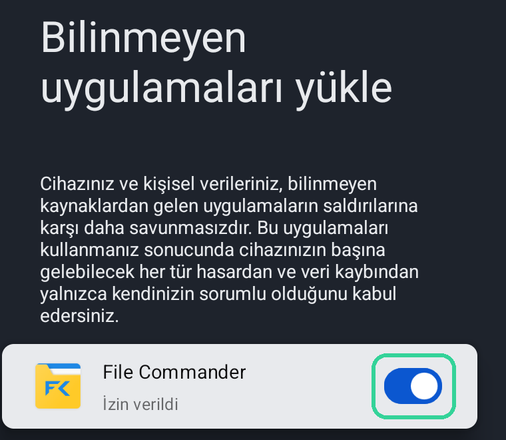
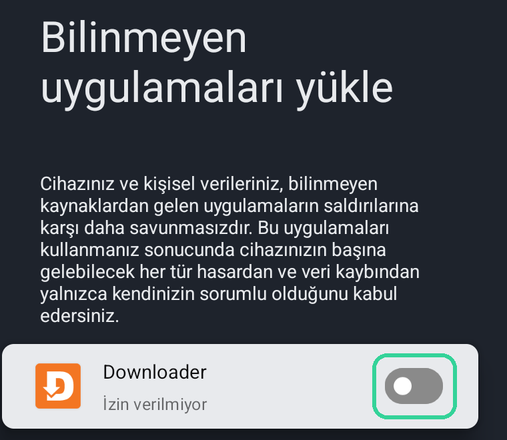
Install page: one flow for every TV, accessibility screenshots, honest Google TV note

diff --git a/index.html b/index.html
@@ -56,7 +56,7 @@ a { color:var(--accent); }
   <img src="logo.png" width="64" height="64" alt="CleanYourTV logosu: zümrüt ekranlı antenli televizyon">
   <div>
     <h1>CleanYourTV'yi indir</h1>
-    <p class="sub">Android TV ve Google TV için reklamsız, sade ana ekran. Bilgisayar ve ADB gerekmez.</p>
+    <p class="sub">Android TV ve Google TV için reklamsız, sade ana ekran.</p>
   </div>
 </header>
 
@@ -65,47 +65,47 @@ a { color:var(--accent); }
   <a id="dl" class="dl" href="https://github.com/umutluprens/cleanyourtv/releases/download/v3.5-umut.2/cleanyourtv-3.5-umut.2.apk">APK'yı indir</a>
   <p id="meta" class="meta"></p>
   <p class="url">TV'de Downloader uygulamasına bu adresi yaz:<br><code id="short"></code></p>
-  <p class="others">Hangi cihaz?</p>
-  <div class="tabs" role="group" aria-label="Cihaz seç">
-    <button data-os="gtv">Google TV</button>
-    <button data-os="atv">Android TV</button>
-  </div>
-  <p class="meta small">Google TV: Google TV Streamer, Chromecast with Google TV ve Google TV'li televizyonlar. Android TV: Mi Box, Sony, Philips ve diğerleri.</p>
 </section>
 
 <span id="kurulum"></span>
 <h2>Kurulum</h2>
-<p class="sub">Beş adım, yaklaşık beş dakika. Kumanda yeterli.</p>
+<p class="sub">Beş adım, kumanda yeterli.</p>
 <ol class="steps">
   <li><b>APK'yı TV'ye aktar.</b> Üç yoldan biri yeter:
     <ul>
-      <li><b>Downloader:</b> TV'de Google Play'den <b>Downloader</b> uygulamasını kur, yukarıdaki adresi yaz, indirince <b>Yükle</b>'ye bas.</li>
+      <li><b>Downloader:</b> TV'de Google Play'den <b>Downloader</b> uygulamasını kur, yukarıdaki adresi yaz ve <b>Load</b>'a bas.</li>
       <li><b>Telefondan:</b> Telefona ve TV'ye <b>Send files to TV</b> uygulamasını kur. İkisi aynı Wi-Fi'da olsun. Dosyayı telefondan gönder, TV'de aç.</li>
       <li><b>USB bellek:</b> APK'yı belleğe kopyala, TV'ye tak ve bir dosya yöneticisiyle (ör. File Commander) aç.</li>
-    </ul></li>
+    </ul>
+    <figure><img src="img/downloader-adres.png" width="800" height="247" alt="Downloader'da adres kutusu: umutluprens.github.io/cleanyourtv/apk yazılı"><figcaption>Downloader'da adresi yazıp Load'a bas.</figcaption></figure></li>
   <li><b>Bilinmeyen kaynaklara izin ver.</b> TV, dosyayı açan uygulama için izin ister. <b>Ayarlar</b>'a bas ve o uygulamanın düğmesini aç, sonra geri dön.
     <span class="small">Elle açmak için: Ayarlar › Gizlilik › Güvenlik ve kısıtlamalar › Bilinmeyen kaynaklar.</span>
-    <figure><img src="img/bilinmeyen.png" width="506" height="440" alt="Bilinmeyen uygulamaları yükle ekranı: dosya yöneticisinin düğmesi işaretli"><figcaption>Bu listede CleanYourTV değil, APK dosyasını açan uygulama görünür: burada File Commander, sende Downloader ya da Send files to TV olabilir. İzni ona veriyorsun.</figcaption></figure></li>
+    <figure><img src="img/bilinmeyen.png" width="507" height="440" alt="Bilinmeyen uygulamaları yükle ekranı: Downloader satırının düğmesi işaretli"><figcaption>Bu listede CleanYourTV değil, APK dosyasını açan uygulama görünür (burada Downloader). İzni ona veriyorsun.</figcaption></figure></li>
   <li><b>Yükle</b>'ye bas. Bitince <b>Bitti</b>'ye bas.
-    <span class="small">“Play Protect” uyarısı çıkarsa <b>Ayrıntılar › Yine de yükle</b>.</span></li>
+    <figure><img src="img/yukle.png" width="661" height="277" alt="Kurulum penceresi: CleanYourTV, Bu uygulamayı yüklemek istiyor musunuz, Yükle düğmesi işaretli"></figure></li>
 
-  <!-- GOOGLE TV -->
-  <li data-for="gtv"><b>Ana ekran yardımcısını aç.</b> Google TV ana ekran seçtirmez. Bunu CleanYourTV'nin erişilebilirlik yardımcısı yapar.
+  <li><b>CleanYourTV'yi ana ekran yap.</b> Kumandada <b>Home</b>'a bas.
     <ul>
-      <li><b>Ayarlar › Sistem › Erişilebilirlik</b>'e gir, en alta, <b>Hizmetler</b> bölümüne in.</li>
-      <li><b>CleanYourTV ana ekranı</b>'na gir, düğmesini aç ve çıkan uyarıyı onayla.</li>
+      <li><b>Hangi ana ekranın kullanılacağını sorarsa</b> (çoğu Android TV): <b>CleanYourTV</b>'yi seç ve <b>Her zaman</b>'a bas. Bu kadar.</li>
+      <li><b>Sormazsa</b> (Google TV): <b>Ayarlar › Sistem › Erişilebilirlik</b>'e gir, en alttaki <b>Hizmetler</b> bölümünde <b>CleanYourTV ana ekranı</b>'na gir.</li>
     </ul>
-    <figure><img src="img/erisilebilirlik.png" width="506" height="126" alt="Erişilebilirlik, Hizmetler bölümü: CleanYourTV ana ekranı satırı işaretli, durumu Kapalı"><figcaption>Açmadan önce satırda “Kapalı” yazar. Açınca “Açık” olur.</figcaption></figure>
-    <p class="note warn">Listede bir de <b>CleanYourTV giriş tuşu</b> var. O başka bir yardımcıdır, ana ekran için onu <b>açma</b>.</p>
-    <p class="note">Android “cihazın tam kontrolü” diye uyarır. Bu, Home tuşunu izleyebilmek için her erişilebilirlik yardımcısında çıkan standart uyarıdır. CleanYourTV ekranı okumaz, internete bağlanmaz.</p></li>
+    <figure><img src="img/erisilebilirlik.png" width="506" height="126" alt="Erişilebilirlik, Hizmetler bölümü: CleanYourTV ana ekranı satırı işaretli, durumu Kapalı"></figure>
+    <p><b>Etkinleştir</b>'i aç.</p>
+    <figure><img src="img/etkinlestir.png" width="507" height="313" alt="CleanYourTV ana ekranı sayfası: Etkinleştir düğmesi işaretli"></figure>
+    <p>Çıkan pencerede <b>Tamam</b>'a bas.</p>
+    <figure><img src="img/tamam.png" width="885" height="230" alt="CleanYourTV ana ekranı kullanılsın mı penceresi: Tamam işaretli"><figcaption>Bu, her erişilebilirlik yardımcısında çıkan standart uyarıdır. CleanYourTV yalnızca Home tuşunu izler, internete bağlanmaz.</figcaption></figure>
+    <p class="note warn">Listede bir de <b>CleanYourTV giriş tuşu</b> var. O başka bir yardımcıdır, ana ekran için onu <b>açma</b>.</p></li>
 
-  <!-- ANDROID TV -->
-  <li data-for="atv" class="hidden"><b>CleanYourTV'yi ana ekran yap.</b> Kumandada <b>Home</b>'a bas. Hangi ana ekranın kullanılacağı sorulursa <b>CleanYourTV</b>'yi seç ve <b>Her zaman</b>'a bas.
-    <span class="small">Soru gelmezse: Ayarlar › Uygulamalar › Varsayılan uygulamalar › Ana ekran uygulaması › CleanYourTV (menü adı markaya göre değişir).</span>
-    <p class="note">Stok ana ekran yine de geri geliyorsa Google TV sekmesindeki erişilebilirlik adımını da uygula: <b>Ayarlar › Erişilebilirlik › CleanYourTV ana ekranı</b>.</p></li>
-
-  <li><b>Home'a bas.</b> <span data-for="gtv">Google TV'nin kendi ekranı bir an görünür, sonra CleanYourTV gelir. Bilgisayarsız kurulumda bu kısa geçiş normaldir.</span><span data-for="atv" class="hidden">CleanYourTV açılmalı. Yeniden başlatınca da açılışta o gelir.</span></li>
+  <li><b>Home'a bas.</b> CleanYourTV gelmeli. Google TV'de önce kendi ekranı bir an görünür, sonra CleanYourTV gelir; bu kısa geçiş normaldir.</li>
 </ol>
+
+<h2>Google TV'de kurulum olmazsa</h2>
+<p>Yeni Google TV'lerde Google'ın iki güvenlik kuralı dosyadan kurulumu zorlaştırabilir:</p>
+<ul>
+  <li><b>Play Protect</b> “Uygulama, cihazınızı korumak için engellendi” deyip kurulumu durdurabilir.</li>
+  <li>Kurulsa bile <b>Etkinleştir</b> düğmesi açılıp hemen kendiliğinden kapanabilir (Android'in “kısıtlanmış ayar” kuralı). Google TV menülerinde bunu açacak bir seçenek yok.</li>
+</ul>
+<p class="note">Bu durumda CleanYourTV'yi bir bilgisayardan ADB ile kurmak gerekir: <a href="https://github.com/Gathin23/cleanyourtv">CleanYourTV'nin kendi kurulum rehberi</a>. Klasik Android TV'ler (Mi Box, Sony, Philips gibi) bu kurallardan etkilenmez.</p>
 
 <h2>Bilmen gerekenler</h2>
 <ul>
@@ -117,8 +117,7 @@ a { color:var(--accent); }
 
 <h2>Geri alma</h2>
 <ol class="steps">
-  <li data-for="gtv"><b>Ayarlar › Sistem › Erişilebilirlik › CleanYourTV ana ekranı</b>'nı kapat.</li>
-  <li data-for="atv" class="hidden"><b>Ayarlar › Uygulamalar › Varsayılan uygulamalar › Ana ekran uygulaması</b>'ndan eski ana ekranı seç.</li>
+  <li>Google TV'de <b>Ayarlar › Sistem › Erişilebilirlik › CleanYourTV ana ekranı</b>'nı kapat. Android TV'de <b>Ayarlar › Uygulamalar › Varsayılan uygulamalar › Ana ekran uygulaması</b>'ndan eski ana ekranı seç.</li>
   <li><b>Ayarlar › Uygulamalar › CleanYourTV › Kaldır.</b> Home tuşu hemen eski ana ekrana döner.</li>
 </ol>
 
@@ -151,18 +150,6 @@ document.getElementById("meta").textContent = "Sürüm " + REL.version + " · " 
 document.getElementById("short").textContent = REL.short;
 document.getElementById("sha").textContent = REL.sha256;
 document.getElementById("release").href = REL.page;
-function show(os) {
-  document.querySelectorAll("[data-for]").forEach(function (el) {
-    el.classList.toggle("hidden", el.getAttribute("data-for") !== os);
-  });
-  document.querySelectorAll(".tabs button").forEach(function (b) {
-    b.setAttribute("aria-pressed", b.getAttribute("data-os") === os ? "true" : "false");
-  });
-}
-document.querySelectorAll(".tabs button").forEach(function (b) {
-  b.addEventListener("click", function () { show(b.getAttribute("data-os")); });
-});
-show("gtv");
 </script>
 </body>
 </html>
